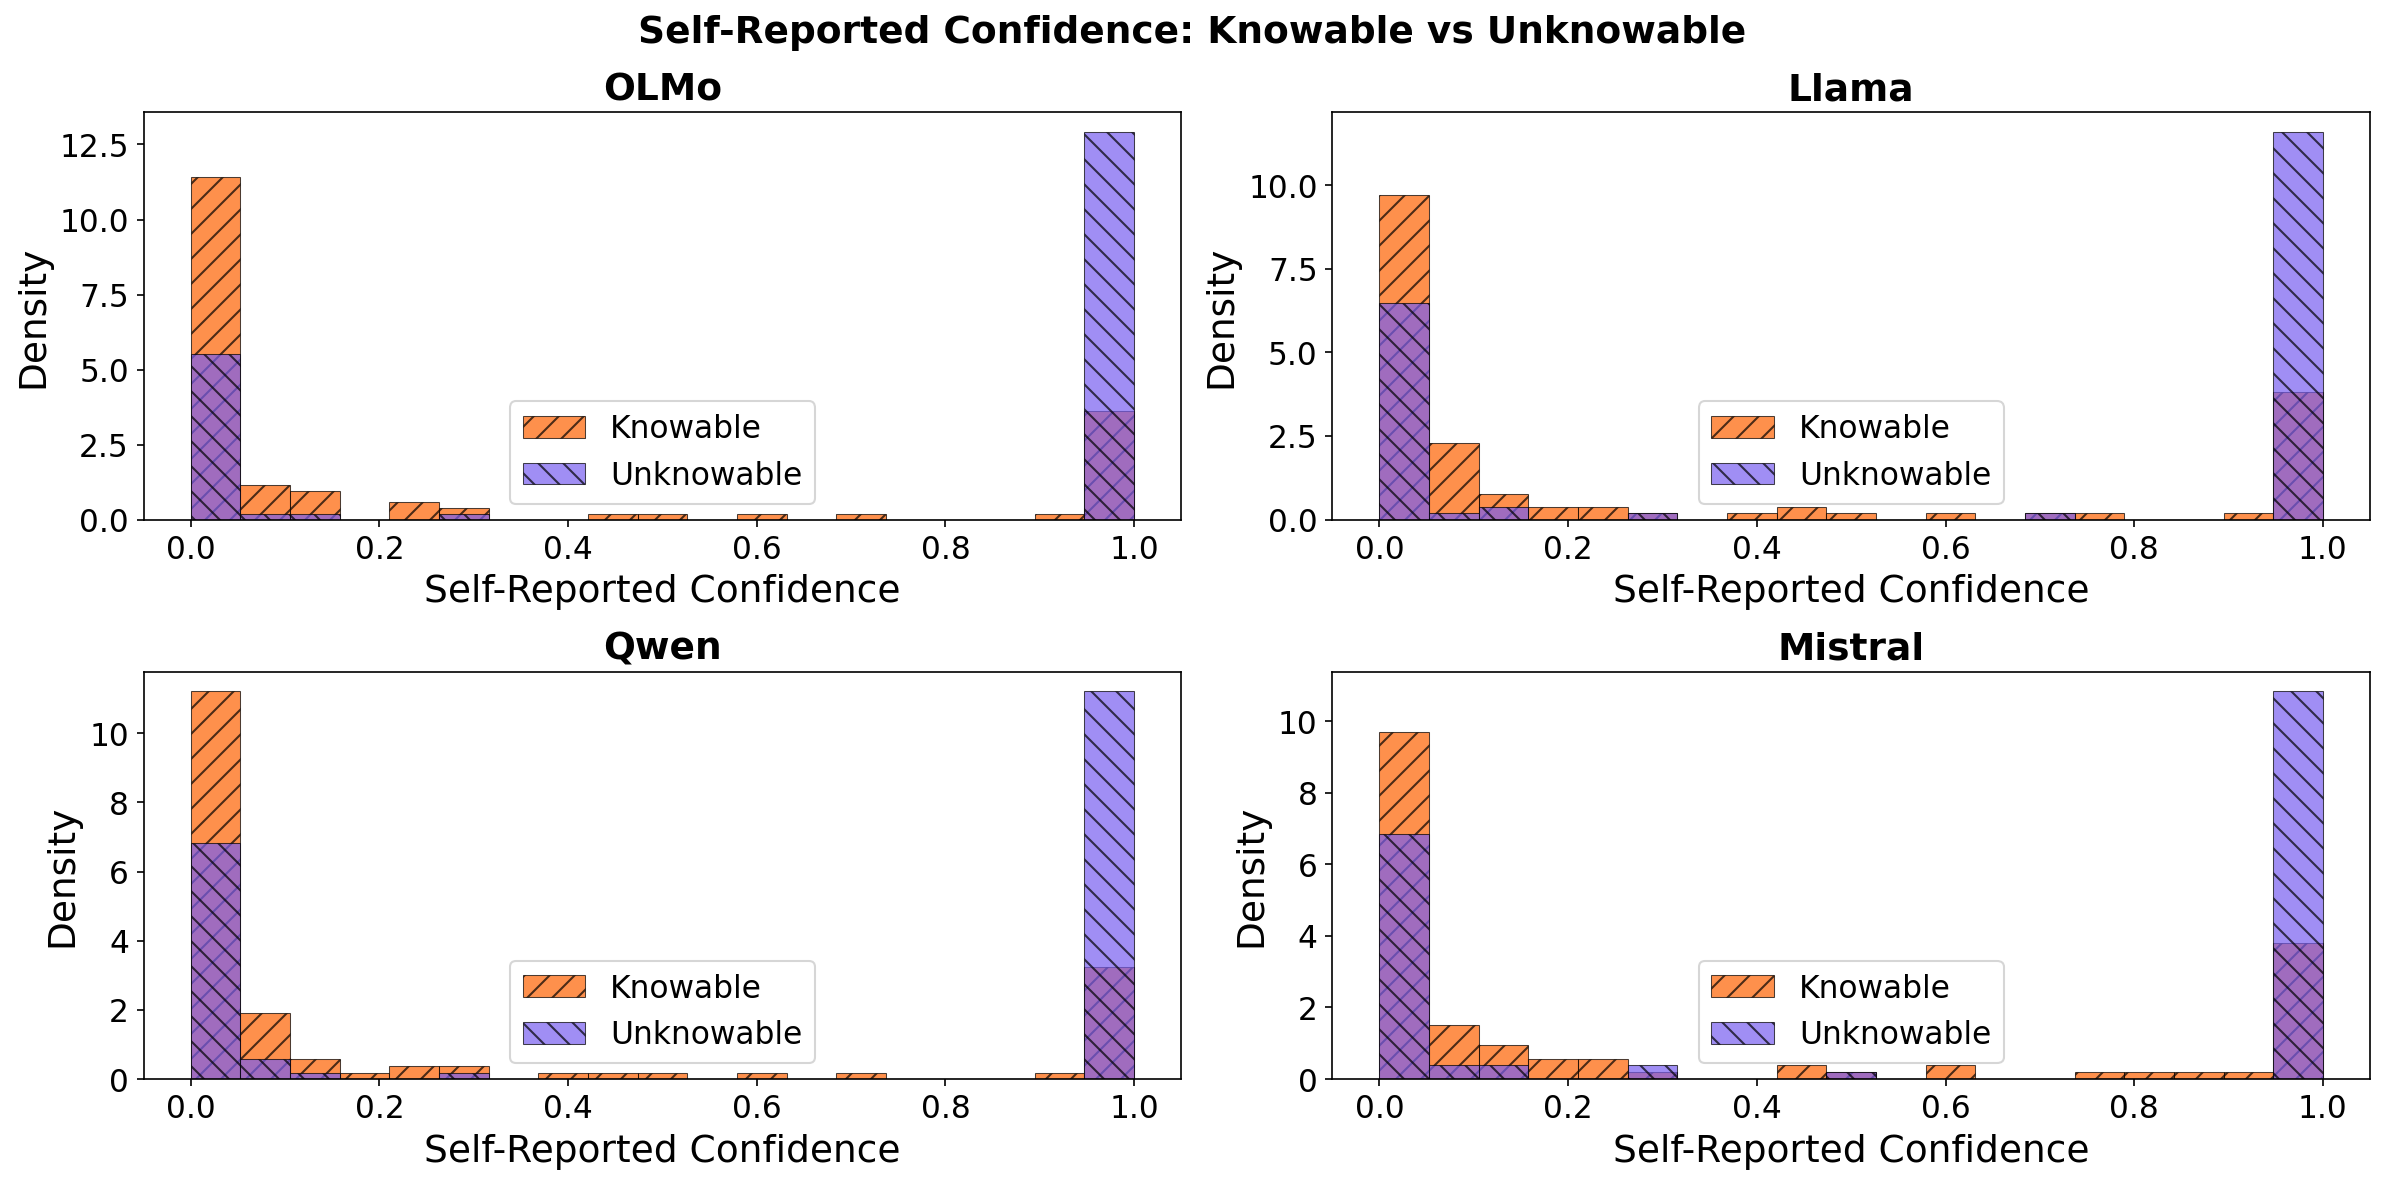
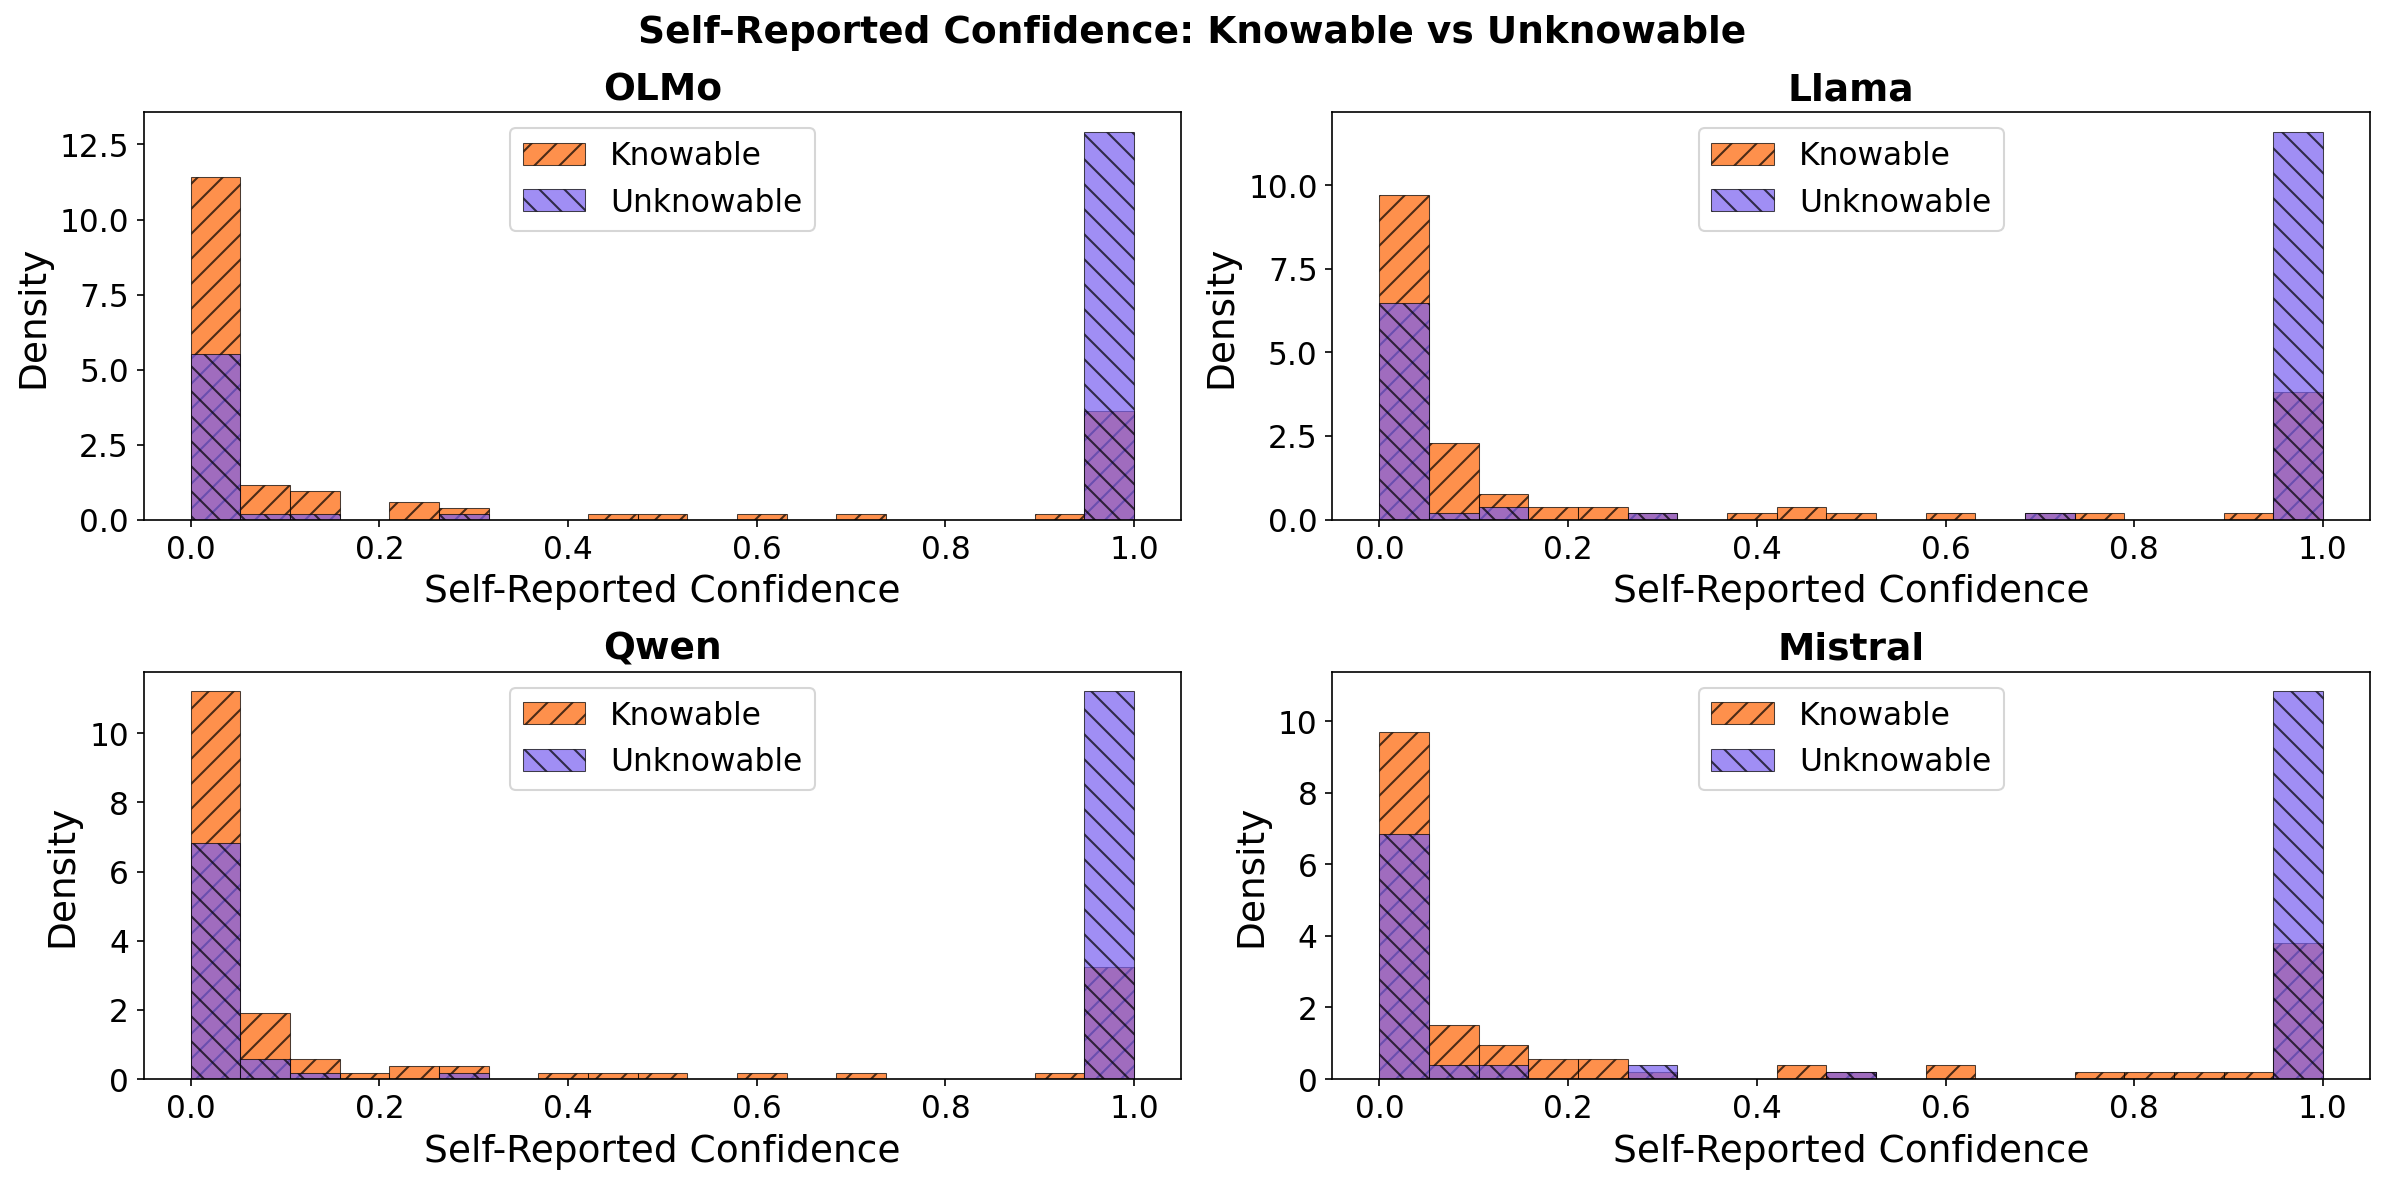
Minor figure tweaks

diff --git a/scripts/fig3_budget_curve.py b/scripts/fig3_budget_curve.py
@@ -156,24 +156,25 @@ def main() -> None:
         print(f"  {name:<22s} " + "  ".join(f"{v:>5.1f}" for v in vals))
 
     styles = {
-        "No judge":             {"color": "gray", "marker": "s", "ls": "--", "lw": 1.5},
-        "Text-guided (length)": {"color": "#dc267f", "marker": "o", "ls": "-",  "lw": 2},
-        "State-object-guided":  {"color": "#785ef0", "marker": "^", "ls": "-",  "lw": 2},
-        "Composed":             {"color": "#648fff", "marker": "D", "ls": "-.", "lw": 2},
+        "No judge":             {"color": "gray", "marker": "s", "ls": "--", "lw": 1.5, "label": "No judge"},
+        "Text-guided (length)": {"color": "#dc267f", "marker": "o", "ls": "-",  "lw": 2, "label": "Text-guided"},
+        "State-object-guided":  {"color": "#785ef0", "marker": "^", "ls": "-",  "lw": 2, "label": "Tensor"},
+        "Composed":             {"color": "#648fff", "marker": "D", "ls": "-.", "lw": 2, "label": "Composed"},
     }
 
     fig, ax = plt.subplots(1, 1, figsize=(FIG_W_SIZE, FIG_H_SIZE))
     for name, vals in data.items():
         s = styles[name]
-        ax.plot(budgets, vals, label=name, marker=s["marker"], linestyle=s["ls"],
+        ax.plot(budgets, vals, label=s["label"], marker=s["marker"], linestyle=s["ls"],
                 linewidth=s["lw"], color=s["color"], markersize=8)
 
     # annotate the state-object vs text gap
     for i, b in enumerate(budgets):
+        print("Budget:", b)
         so = data["State-object-guided"][i]
         tx = data["Text-guided (length)"][i]
         ax.annotate(f"+{so - tx:.1f}pp", xy=(b, (so + tx) / 2), fontsize=TICK_SIZE,
-                    color="#555555", ha="left", va="center", xytext=(b + 1.5, (so + tx) / 2))
+                    color="black", ha="left", va="center", xytext=(b, (so + tx) / 2))
 
     ax.set_xlabel("Verification Budget (%)", fontsize=LABEL_SIZE)
     ax.set_ylabel("End-to-End Accuracy (%)", fontsize=LABEL_SIZE)
@@ -181,7 +182,7 @@ def main() -> None:
     ax.tick_params(axis='both', labelsize=TICK_SIZE)
     ax.set_xlim(5, 35)
     ax.set_ylim(73, 95)
-    ax.legend(loc="lower right", fontsize=LEGEND_SIZE)
+    ax.legend(loc="upper left", fontsize=LEGEND_SIZE, ncol=2)
     ax.grid(True, alpha=0.3)
     plt.tight_layout()
 

diff --git a/scripts/fig2_confidence_distributions.py b/scripts/fig2_confidence_distributions.py
@@ -68,7 +68,7 @@ def main() -> None:
         ax.set_xlabel("Self-Reported Confidence", fontsize=LABEL_SIZE)
         ax.tick_params(axis='both', labelsize=TICK_SIZE)
         ax.set_ylabel("Density", fontsize=LABEL_SIZE)
-        ax.legend(fontsize=LEGEND_SIZE)
+        ax.legend(fontsize=LEGEND_SIZE, loc="upper center")
 
     plt.tight_layout()
     OUT_STEM.parent.mkdir(exist_ok=True)